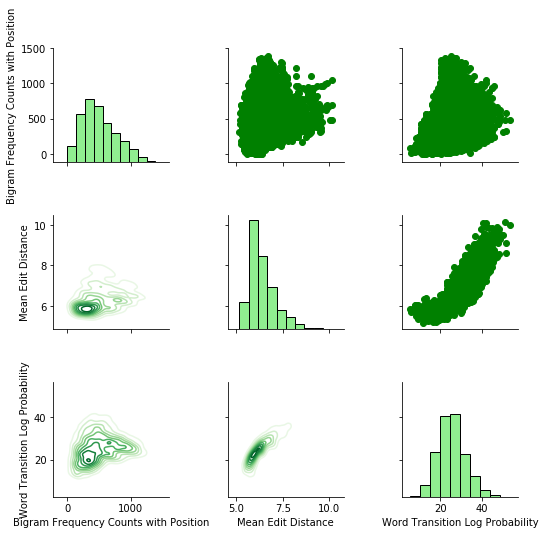
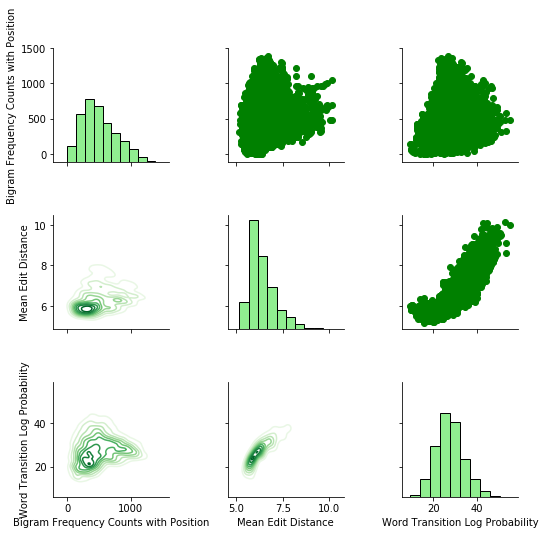
Annotate code and update figures

diff --git a/letter_stats.py b/letter_stats.py
@@ -5,37 +5,27 @@ Created on Sun Jan  3 22:20:11 2021
 
 @author: alex
 
+Code for the edits-bigrams-transitions project
 
-
-
-INTUITION: the more certain you are about an event, the less likely it is that it can be substituted with something else ... 
-
-
-so given a of the pair ab, if you have 90% chance of getting b (NO: if you have sparse coding) then you might expect lower edit distances as fewer possibilities?!
-
-Okay, you will only get a relationship for real words. use SUBTLEX corpus!
-
-
-But, if you have w1 and w2, lower edit distance = ...?
-
-PROBLEM: edit distance is only specified with respect to another word. You can't correlate edit distance and bigram frequency in a single word.
-
-
-closest word: find word in corpus with lowest edit distance, to give each word a 'distance value' as well as bigram frequency value
-
-Might expect smaller distances to mean more frequent bigrams, as easier to find another word with similar features
-
-
+Algorithm:
+    Randomly sample 10,000 words from the BLP corpus. These are both training and testing data.
+    Create a count transition matrix
+    Work out different measures on a word level:
+        (1) Overall bigram frequency count
+        (2) Bigram frequency count, but bigram position counts
+        (3) Bigram probabilities, the independent probability of each bigram in a word multiplied
+        (4) The mean edit distance to all other words in the language
+        (5) The 'word transition probability': how likely a word is based on transitions
+        (6) Log transformation of word transition probability
+        
+    Create scatterplots and correlation matrices for each measure
+    
 """
 
-#work out the relationship between three different, but related metrics of statistical 
-#bigram frequency, transitional probability and edit distance. 
-
-
+# Import all relevant functions
 
 import random
 import pandas as pd
-import numpy as np
 import matplotlib.pyplot as plt
 from itertools import islice
 from math import log
@@ -45,16 +35,7 @@ import re
 import seaborn as sns
 
 
-
-def make_strings(des_len, lang_dict):
-    big_string = []
-    for i in lang_dict:
-        number = int(des_len * lang_dict[i])
-        to_append = [i] * number
-        big_string += to_append
-    random.shuffle(big_string)
-    return(big_string)
-        
+# Function to iterate across an entire language, creating bigram-sized windows
     
 def window(letters_list, n=2):
     lang_letters = iter(letters_list)
@@ -65,6 +46,7 @@ def window(letters_list, n=2):
             result = result[1:] + (elem,)
             yield result
        
+# Function to count the number of these windows for each bigram combination, and combine into count matrix
         
 def transition_matrix_pandas(letters_list):        
     pairs = pd.DataFrame(window(letters_list), columns=['char_n', 'char_n+1'])
@@ -72,10 +54,12 @@ def transition_matrix_pandas(letters_list):
     return (counts.unstack())   
 
 
+# Code for edit distance using dynamic programming, which iterates through a grid of two words choosing the easiest path
+    # Code written with extensive help from Wikibooks and Stackexchange
+
 def levenshtein(s1, s2):
     if len(s1) < len(s2):
         return levenshtein(s2, s1)
-    # len(s1) >= len(s2)
     if len(s2) == 0:
         return len(s1)
     previous_row = range(len(s2) + 1)
@@ -90,13 +74,38 @@ def levenshtein(s1, s2):
     return previous_row[-1]
 
 
-def get_bigram_freq(word, count_matrix):
+# Function to average edit distance across all candidates for a given word
+
+def mean_levenshtein(word,language):
+    count = 0
+    edits = 0
+    for i in language:
+        edits += levenshtein(word, i)
+        count += 1
+    return edits / count
+    
+
+# Function to take a word, and return the average bigram frequency of a bigram in the word
+
+def get_average_bigram_freq(word, count_matrix):
     total_bigram_freq = count_matrix[word[1]][word[0]]
     bigrams = len(word) - 1
     for i in range(0, bigrams):
         total_bigram_freq += count_matrix[word[i+1]][word[i]]
     return total_bigram_freq / bigrams
 
+
+# Function to return the overall bigram frequency of a word
+
+def get_total_bigram_freq(word, count_matrix):
+    total_bigram_freq = count_matrix[word[1]][word[0]]
+    bigrams = len(word) - 1
+    for i in range(0, bigrams):
+        total_bigram_freq += count_matrix[word[i+1]][word[i]]
+    return total_bigram_freq
+
+
+# Function to return the overall bigram frequency in a certain position
 
 def get_bigram_freq_position(word, total_string):
     len_word = len(word)
@@ -108,6 +117,20 @@ def get_bigram_freq_position(word, total_string):
     return count_total
 
 
+# Function to return the overall bigram frequency in a certain position, averaged across a word
+
+def get_bigram_freq_position_average(word, total_string):
+    num_bigrams = len(word) -1
+    count_total = 0
+    for i in range(0,num_bigrams):
+        regex = '\s' + '.' * i + word[i] + word[i+1]
+        count = re.findall(regex, total_string)
+        count_total += len(count)
+    return count_total / num_bigrams 
+
+
+# Function to return the overall word probability if you treat each bigram as an independent event 
+
 def get_bigram_prob(word, transitions, number_bigrams):
     bigram_freq = transitions[word[1]][word[0]]/number_bigrams
     for i in range(1, len(word)-1):
@@ -115,22 +138,17 @@ def get_bigram_prob(word, transitions, number_bigrams):
     return -log(bigram_freq,2)
 
 
+# Function to generate word probabiity based on transition probabilities: i.e. given a space, the chance of getting a given word
+
 def get_transition_probs(word, transition_probs, language_string):
-    word_prob = language_string.count(word[0])/len(language_string)
+    word_prob = language_string.count(' ' + word[0])/len(language_string)
     for i in range(0, len(word)-1):
         word_prob *= transition_probs[word[i+1]][word[i]]
     return word_prob
 
 
-def mean_levenshtein(word,language):
-    count = 0
-    edits = 0
-    for i in language:
-        edits += levenshtein(word, i)
-        count += 1
-    return edits / count
-    
-
+# Read data from the BLP (not availabe on Github, can be found on BLP site)
+    # Randomly sample 10,000 words into both a list and string
 
 df = pd.read_csv (r'BLP.csv')
 
@@ -138,26 +156,30 @@ words = list(df.iloc[:, 0])
 
 random.shuffle(words)
 
-
 words = [i for i in words if type(i) == str][:10000]
 
-
 total_string = ' '.join(words)
+
+
+# Create matrices of bigram transition counts
+# To create a righthand transition matrix, simply divide each row by its total
+# Note that spaces are included here, as the start of the word may be important later on
 
 transition_counts = transition_matrix_pandas(total_string)
 
 transition_probs = transition_counts.div(transition_counts.sum(axis=1), axis=0)
 
 
-'''
-Now expect negative correlation between edit distance and bigram frequency: i.e the more certain a word is, the fewer ways it could 
-have been otherwise.
-'''
 
+# Calculate the above metrics for each word, using the functions defined above
 
-bg_freq_list = [get_bigram_freq(i, transition_counts) for i in words]
+bg_freq_list = [get_total_bigram_freq(i, transition_counts) for i in words]
+
+bg_freq_avg_list = [get_average_bigram_freq(i, transition_counts) for i in words]
 
 bg_freq_position_list = [get_bigram_freq_position(i, total_string) for i in words]
+
+bg_freq_position_avg_list = [get_bigram_freq_position_average(i, total_string) for i in words]
 
 bg_probs_list = [get_bigram_prob(i, transition_counts, len(total_string)-2) for i in words]
 
@@ -168,9 +190,12 @@ transition_probs_list = [get_transition_probs(i, transition_probs, total_string)
 transition_probs_log_list = [-log(j,2) for j in transition_probs_list]
 
 
+# Put all data into one matrix
 
 total_data = {'Bigram Frequency Counts': bg_freq_list,
+              'Bigram Average Frequency': bg_freq_avg_list,
               'Bigram Frequency Counts with Position': bg_freq_position_list,
+              'Average Bigram Frequency Counts with Position': bg_freq_position_avg_list,
               'Bigram Independent Probabilities': bg_probs_list,
               'Mean Edit Distance': edit_distances_list,
               'Word Transition Probability': transition_probs_list,
@@ -178,56 +203,27 @@ total_data = {'Bigram Frequency Counts': bg_freq_list,
 
 total_data_struct = pd.DataFrame(total_data)
 
+
+# Calculate correlation matrices across each metric
+
 correlation_matrix_spearman = total_data_struct.corr(method='spearman')
 correlation_matrix_pearson = total_data_struct.corr(method='pearson')
+
+
+# Display all data as a grid of scatterplots and histrograms
 
 sns.pairplot(total_data_struct)
 
 
-visual_data = total_data_struct.drop(columns=['Word Transition Probability','Bigram Independent Probabilities', 'Bigram Frequency Counts'])
+# Display the three ost salient metrics with scatterplots and histograms in a grid, with the lower quarter using kernel density plots
+
+visual_data = total_data_struct.drop(columns=['Word Transition Probability','Bigram Independent Probabilities', 'Bigram Frequency Counts', 'Bigram Average Frequency'])
 
 grid = sns.PairGrid(visual_data)
-sns.set_palette("pastel")
 grid = grid.map_upper(plt.scatter, color = 'green')
 grid = grid.map_lower(sns.kdeplot, cmap = 'Greens')
 grid = grid.map_diag(plt.hist, bins = 10, edgecolor =  'k', color = 'lightgreen')
 
-
-
-'''
-
-NB: CORRELATION ONLY HIGH WITH LOG TRANSFORMATION - non linear.
-
-
-Conclusion: the more probable a word is in terms of bigrams (chance you will get that collection of bigrams) or transitions (i.e. 
-higher chance is you will get a certain word), the higher average edit distance to other words.
-
-Why is this the case?
-
-Well, you might expect that more probable words are more sparsely coded. 
-
-This means that you will have to change more letters to reach another word.
-
-For example, take 'qu'. This is certain: whenever you have a q, there is a almost 100% chance of u.
-
-likewise, if you have a 'u', by Bayesian statistics, you have a relatively high chance of having had a 'q' (in my model, 5.4%). 
-
-This creates 'islands of certainty', where to get to another word by editing letters you have to modify more than one letter.
-
-i.e. the more certain letters go together, the more you have to change to get to a new, possible word.
-
-
-Actually: key thing to remember. Probabilities here reflect the number of combinations. If a probability is high, that just means few other
-words use those combinations.
-That means you need to change more letters to get to another word. 
-
-
-
-
-
-Key question: if we are sensitive to bigrams, are we sensitive to bigram frequency?
-
-'''
 
 
 
